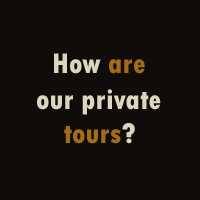
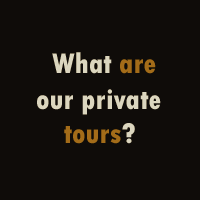
english version added

Changed region(s): [[0.24, 0.24, 0.78, 0.39]]

diff --git a/en.html b/en.html
@@ -136,12 +136,12 @@
 				<img src="images/homeimages/slider8.jpg" alt="slider1"/>
 				<img src="images/homeimages/slider9.jpg" alt="slider1"/>
 				<div id="firstinfo">
-					<h1><strong>LONDON,<br/> AS YOU DESERVE</strong></h1>
-					<h2><em>We adapt to <span>you</span></em></h2>
-					<p><a href="#tours"><strong>&nbsp;&nbsp;&nbsp;&nbsp;"<em>Hiring <span>Private</span></br>&nbsp;&nbsp;&nbsp;&nbsp;&nbsp;&nbsp;&nbsp;&nbsp;&nbsp;&nbsp;<span>Tours</span> for groups</em>"</strong></a></p>
-					<p><a href="#weektours"><strong>&nbsp;&nbsp;&nbsp;&nbsp;&nbsp;&nbsp;"<em>Offer Tours</br>&nbsp;&nbsp;&nbsp;&nbsp;&nbsp;&nbsp;&nbsp;&nbsp;&nbsp;&nbsp;&nbsp;&nbsp;&nbsp;  each <span>week</span></em> "</strong></a></p>
-					<p><a href="#transfers"><strong>&nbsp;&nbsp;"<em><span>Transfers</span> from and</br>&nbsp;&nbsp;&nbsp;&nbsp;&nbsp;&nbsp;&nbsp;&nbsp;&nbsp;&nbsp;&nbsp;&nbsp;&nbsp;  to the airports</em> "</strong></a></p>
-					<p><a href="#free"><strong>&nbsp;&nbsp;"<em><span>Free</span> Tours and</br>&nbsp;&nbsp;&nbsp;&nbsp;&nbsp;&nbsp;&nbsp;&nbsp;&nbsp; many more offers</em> "</strong></a></p>
+					<h1><strong>THE LONDON YOU<br/> DESERVE</strong></h1>
+					<h2><em>We adjust to <span>all your needs</span></em></h2>
+					<p><a href="#tours"><strong>&nbsp;&nbsp;&nbsp;&nbsp;"<em>Pre-Booked <span>Private</span></br>&nbsp;&nbsp;&nbsp;&nbsp;&nbsp;&nbsp;&nbsp;&nbsp;&nbsp;&nbsp;<span>Tours</span> for groups</em>"</strong></a></p>
+					<p><a href="#weektours"><strong>&nbsp;&nbsp;&nbsp;&nbsp;&nbsp;&nbsp;"<em>Tours in offer</br>&nbsp;&nbsp;&nbsp;&nbsp;&nbsp;&nbsp;&nbsp;&nbsp;&nbsp;&nbsp;&nbsp;&nbsp;&nbsp;  every <span>week</span></em> "</strong></a></p>
+					<p><a href="#transfers"><strong>&nbsp;&nbsp;"<em><span>Transfers</span> to</br>&nbsp;&nbsp;&nbsp;&nbsp;&nbsp;&nbsp;&nbsp;&nbsp;&nbsp;&nbsp;&nbsp;&nbsp;&nbsp;  every airport</em> "</strong></a></p>
+					<p><a href="#free"><strong>&nbsp;&nbsp;"<em><span>Free</span> Tours and</br>&nbsp;&nbsp;&nbsp;&nbsp;&nbsp;&nbsp;&nbsp;&nbsp;&nbsp;&nbsp;&nbsp; many more</em> "</strong></a></p>
 				</div>
 
 			</section>
@@ -191,11 +191,11 @@
 				<article class="contentabout" >
 				</br>
 				</br>
-					<p>"¿Viajas a Londres en familia? ¿Sois un cole que busca una actividad lúdico-cultural para vuestro viaje de fin de curso? ¿Estáis de despedida de soltero/a o, simplemente vienes en pareja y te apetece disfrutar de un paseo relajado?</p>
+					<p>Are you in London on a family holiday? Are you a school looking for a cultural activity for your annual school trip? Are you organizing a bachelor party or just travelling with your couple and feeling like going for a relaxing walk around town?</p>
 				</br> 
-					<p>Nuestros tours privados están pensados para aquellos que buscan poder disfrutar de las ventajas de tener un guía en exclusiva, lo que permite adaptar el ritmo y el tono del tour a las necesidades de cada grupo convirtiendo la experiencia en algo personal.</p>
+					<p>Our private tours are designed for those who want to enjoy the advantages of an exclusive guide, which allows us to adapt the pace and tone of the tour to each group’s needs and make it a personal experience.</p>
 				</br>
-					<p><span>Los precios</span> varían según el número de integrantes del grupo y es necesaria la reserva previa a través del apartado contacto para poder establecer un punto y una hora de encuentro. Puedes consultar nuestra tabla de precios <span><a href="#prices"> aquí</a></span>."</p>
+					<p><span>The price</span> depends on the number of people in the group and a previous booking through our contact page is needed so that we can arrange a meeting time and location. You can check our price chart <span><a href="#prices"> here</a></span>.</p>
 				</br>
 					<p><a href="#privatetoursconditions">Private Tours Terms and Conditions</a></p>
 				</br>
@@ -208,7 +208,7 @@
 				<img src="images/pricesimages/prices.jpg"/>
 				<article class="contentprices" >
 					</br>
-					<h4>"¿Quieres que te acompañemos desde el hotel hasta el punto de encuentro? Por solo <span><em>20 libras más</em></span> sobre el precio total podemos hacerlo. Pregúntanos sobre nuestros servicios de recogida a la hora de hacer la reserva."</h4>
+					<h4>Do you want us to walk with you from your hotel to the meeting point? We can do it for just an <span><em>extra 20 pounds</span></em>. Ask about our pick up services when you make the booking.</h4>
 					<table>
 					 	<thead>
 					    	<tr>
@@ -219,11 +219,11 @@
 					  	<tbody>
 					    	<tr>
 					      		<td>1-10 people</td>
-					      		<td>£90 per group</td>
+					      		<td>100 pounds for the whole group</td>
 					    	</tr>
 					    	<tr>
 					      		<td>11-19 people </td>
-					      		<td>£90 pounds per group plus £6 per person extra over the number of 10 people.</td>
+					      		<td>100 + 5 pounds extra for each person above 10</td>
 					    	</tr>
 					    	<tr>
 					      		<td>20-30 people</td>
@@ -231,13 +231,13 @@
 					    	</tr>
 					    	<tr>
 					      		<td>+30 people</td>
-					      		<td>Ask for price</td>
+					      		<td>Ask price</td>
 					    	</tr>
 					  	</tbody>
 					</table>
 					<br>
-					<p>Get <strong><span>10% discount</span></strong> if you book more than one tour at the same time and a <strong><span>discount of 15%</span></strong> from the third one</p>
-					<p>Free tour for children under 10 years (inclusive) accompanied by adults (maximum 2 children per adult).</p>
+					<p>If you book more than one tour in the same booking you will receive a <strong><span>10% discount</strong></span> <br />in the second tour and a <strong><span>15% discount</strong></span> in each tour from the third one.</p>
+					<p>Children up to 13 years old will not be taken into account, provided they are accompanied by an adult (max. 2 children per adult)</p>
 				</article>
 			</section>
 			<!--/Prices-->
@@ -248,34 +248,34 @@
 					<article class="contentconditions">
 						</br>
 						</br>
-							<h1>Términos y Condiciones de los Tours Privados</h1>
+							<h1>Private Tours Terms & Conditions</h1>
 						</br>
 						</br>
-							<p>Cualquier reserva hecha con www.tourlondres.com estará regida y sujeta a los siguientes términos y Condiciones:</p>
+							<p>Any booking made with www.tourlondres.com will be subject to the following terms and conditions.</p>
 						</br>
-							<p>&raquo; Para poder reservar un tour privado será necesario consultar disponibilidad a través de la sección ”Contacto” de la página web o mandar un correo electrónico a <span>contacto@tourlondres.com</span>. Para hacer la reserva oficial se abonará el 100% del precio del servicio.</p>
+							<p>&raquo; In order to book a private tour, it is necessary to ask for availability through the “Contact” section of the web site or send an email to <span>contacto@tourlondres.com</span>. 100% of the service price will be paid when booking the service.</p>
 						</br>
-							<p>&raquo; Los precios están establecidos según el número de integrantes del grupo. <span>Los niños de hasta 13 años no serán contabilizados</span> a la hora de establecer el precio de un tour privado siempre y cuando vayan acompañados de un adulto (Máximo de 2 niños por adulto, a partir del tercero se  contabilizarán como un miembro más del grupo).</p>
+							<p>&raquo; Prices are established depending on the number of people in the group. Children <span>up to 13 years old</span> will not be taken into account when calculating the price of a private tour, provided they are accompanied by an adult (maximum of 2 children per adult, from the third one they will count as a full paying member of the group)</p>
 						</br>
-							<p>&raquo; La fecha, hora y el punto de partida de los tours se <span>acordará entre el cliente y Tour Londres</span> a través de la reserva. El guía esperará un máximo de <span>una hora en el punto de encuentro</span> que se descontará del tiempo estipulado de la ruta. Una vez pasado este tiempo se entenderá que el cliente no se ha presentado y el tour será cancelado.</p>
+							<p>&raquo; The date, time and start point of the tours <span>will be agreed between Tour Londres and the customer</span> during the booking. The guide will wait a maximum of <span>1 hour at the meeting point</span> and that time will be deduced from the total time of the tour. After that time, we will consider it as a no-show and the tour will be canceled.</p>
 						</br>
-							<p>&raquo;<span> Tour Londres se reserva el derecho a cambiar, cancelar o alterar rutas</span> siempre que lo considere necesario por motivos meteorológicos, seguridad o causas ajenas a la empresa. En caso de cancelación del servicio por responsabilidad directa de Tour Londres, <span>se abonará una devolución íntegra del precio</span> del servicio o el itinerario/servicio será sustituido por uno de igual valor.</p>
+							<p>&raquo;<span> Tour Londres reserves the right to change, cancel or modify routes</span> whenever it may be necessary due to weather conditions, security or external reasons. In case of cancelation of the service due to a direct responsibility from Tour Londres, <span>a full refund of the price of the service</span> will be made or the tour/service will be replaced for one of the same value. </p>
 						</br>
-							<p>&raquo; Si debido a una causa de fuerza mayor como terremotos, nubes de polvo volcánico, condiciones meteorológicas extremas, guerras, etc. no se puede ofrecer el tour, Tour Londres no se hará responsable.</p>
+							<p>&raquo; Tour Londres is not responsible in case of cancelation due to external conditions such as hearthquakes, volcanic dust, extreme weather conditions, wars, etc.</p>
 						</br>
-							<p>&raquo; Tanto Tour Londres como los guías autónomos que proporcionan los servicios promocionados por Tour Londres no se hacen responsables de ninguna lesión física ni pérdida o daño de objetos personales durante el recorrido, así como gastos adicionales debido a retrasos o cambios por parte del cliente.</p>
+							<p>&raquo; Either Tour Londres or the self-employed guides providing the services on behalf of Tour Londres are not responsible of any physical damage or loss or damage of personal belongings during the tour, or any additional costs due to changes o delays caused by the customer.</p>
 						</br>
-							<p>Tour Londres Ltd no pasará información personal a terceros</p>
+							<p>Tour Londres Ltd will not share any information with third parties.</p>
 						</br>
-							<p>Tour Londres y los guías se reservan el derecho de admisión a sus tours a cualquier persona y por cualquier motivo.</p>
-							<h3>Formas de Pago</h3>
-							<p>El pago se realizará en £ (Libra esterlina) en la tasa de cambio del día de su reserva y mediante transferencia bancaria.</p>
-							<h3>Cancelaciones</h3>
-							<p>Si la cancelación se realiza al menos <span>72 horas antes</span> de la hora del comienzo de los servicios se devolverá el 100% de la cantidad abonada siendo el cliente el que soporte cualquier coste bancario en el caso de que existiera. Si se produce una cancelación <span>entre las 72 y 24 horas</span> antes del servicio se devolverá el 50% del total  siendo, de la misma manera, el cliente el que soporte cualquier coste bancario en el caso de que existiera. Si la cancelación tiene lugar con <span>menos de 24 horas</span> de antelación a los servicios o de no presentarse el grupo el día en el lugar y hora de encuentro se cobrará una tarifa de cancelación del 100% (no reembolsable).</p>
+							<p>Tour Londres and its guides reserve the right of admission to their tours to any person and for any reason.</p>
+							<h3>Payment options:</h3>
+							<p>The payments will be made in british pounds at the change rate of the day of the booking and through bank transfer.</p>
+							<h3>Cancelations:</h3>
+							<p>If the cancelation is made at least 72 hours prior to the start of the service, 100% of the amount paid will be returned, and the customer will have to cover any additional administrative cost. If the cancelation is made between 72 and 24 hours prior to the service, 50% of the total amount will be returned, and yet again the customer will have to cover any additional administrative cost. If the cancelation is made less than 24hours prior to the services or the group does not show up at the agreed start date and time of the tour, a cancelation charge of 100% will be charged (non-refundable)</p>
 						</br>
-							<p>Para realizar una cancelación de los servicios previamente confirmados deberá mandar un correo a <span>contacto@tourlondres.com</span></p>
+							<p>In order to cancel a previously booked service, an email needs to be sent to: <span>contacto@tourlondres.com</span></p>
 						</br>
-							<p>Cualquier reserva de Tours Privados hecha con tourlondres.com está sujeta y regida a estos “Términos y Condiciones”. Ningún cambio en estos “Términos y Condiciones” tendrá efecto si no está puesto por escrito y con la autoridad de tourlondres.com.</p>
+							<p>Any Private Tours booking made with tourlondres.com will be subject to these “Terms and Conditions”. No change in these “Terms and Conditions” will be valid unless executed in writing and authorized by tourlondres.com.</p>
 						</br>
 						</br>
 					</article>
@@ -289,19 +289,19 @@
 				<article class="contentweektours">
 				</br>
 				</br>
-					<p>"Si quieres conocer Londres con nosotros, <span>todos los fines de semana</span> organizamos tours abiertos a los que puedes unirte por solo <span>10 libras</span> por persona. Consulta nuestros horarios y reserva tu plaza a través de nuestra sección de contacto."</p>
+					<p>If you want to discover London with us, we organize open tours <span>every weekend</span> which you can join for just <span>10 £</span> per person. Check our times and book a place through our contact page. Children up to 13 years old go free when accompanied by an adult, 2 children per adult maximum.</p>
 				</br>
 					<div>
 						<table>
 							<tbody>
 						    	<tr>
-						    		<td><a href="#oldcity"><img src="images/toursimages/oldcity-es.jpg"/></a></td>
+						    		<td><a href="#oldcity"><img src="images/toursimages/oldcity-en.jpg"/></a></td>
 						    		<td><a href="#westminster"><img src="images/toursimages/westminster.jpg"/></a></td>
 						    	</tr>
 						    </tbody>
 						</table>
 					</div>
-					<p><a href="#weektoursconditions">Términos y Condiciones de Tours Periódicos Semanales</a></p></p>
+					<p><a href="#weektoursconditions">Weekly Tours terms and conditions:</a></p></p>
 			</section>
 
 			<!--Weekly Conditions-->
@@ -310,36 +310,14 @@
 					<article class="contentconditions">
 						</br>
 						</br>
-							<h1>Términos y Condiciones de Tours Periódicos Semanales</h1>
+							<h1>Weekly Tours terms and conditions:</h1>
 						</br>
 						</br>
-							<p>Cualquier reserva hecha con www.tourlondres.com estará regida y sujeta a los siguientes términos y Condiciones:</p>
+							<p>&raquo; In order to give you the best quality, our tours have limited places. Book yours through the “Contact” section of our web site or by sending us an email to <span>contacto@tourlondres.com</span>.</p>
 						</br>
-							<p>&raquo; Para ofrecer la máxima calidad, contamos con un número máximo de participantes en nuestros tours, por lo que será necesario reservar la plaza a través de la sección “Contacto” de la página web o mandando un correo electrónico a <span>contacto@tourlondres.com</span> .</p>
+							<p>&raquo; Our prices are per person/tour. <span>Children up to 13 years old can join free of charge</span> to our weekly tours provided they are accompanied by an adult (max. 2 children per adult, if there are additional children, the general adult fare will be applied)</p>
 						</br>
-							<p>&raquo; Los precios están establecidos por persona y ruta. <span>Los niños de hasta 13 años pueden unirse de forma gratuita</span> a las rutas semanales siempre y cuando vayan acompañados de un adulto (Máximo de 2 niños por adulto, a partir del tercero se aplicará la tarifa general). </p>
-						</br>
-							<p>&raquo; Es <span>responsabilidad del cliente</span> comprobar la fecha, hora y el punto de partida de los tours. La hora establecida es la hora en la que el tour da comienzo por lo que se recomienda estar, al menos, diez minutos antes en el punto de encuentro acordado. Si el cliente no se presenta con puntualidad, Tour Londres se reserva el derecho a comenzar el tour sin el cliente. En tal caso, el cliente debe entender que no existirá devolución alguna por parte de la empresa. </p>
-						</br>
-							<p>&raquo; <span>Tour Londres se reserva el derecho a cambiar, cancelar o alterar rutas siempre que lo considere necesario</span> por motivos meteorológicos, seguridad o causas ajenas a la empresa. En caso de cancelación del servicio por responsabilidad directa de Tour Londres, se abonará una devolución íntegra del precio del servicio o el itinerario/servicio será sustituido por uno de igual valor.</p>
-						</br>
-							<p>&raquo; Si debido a causa de fuerza mayor como terremotos, nubes de polvo volcánico, condiciones meteorológicas extremas, guerras, etc. no se puede ofrecer el tour, Tour Londres no se hará responsable.</p>
-						</br>
-							<p>&raquo; Tanto Tour Londres como los guías autónomos que proporcionan los servicios promocionados por Tour Londres no se hacen responsables de ninguna lesión física ni pérdida o daño de objetos personales durante el recorrido, así como gastos adicionales debido a retrasos o cambios por parte del cliente.</p>
-						</br>
-							<p>Tour Londres Ltd no pasará información personal a terceros</p>
-						</br>
-							<p>Tour Londres y los guías se reservan el derecho de admisión a sus tours a cualquier persona y por cualquier motivo.</p>
-							<h3>Formas de Pago</h3>
-							<p>El pago se realizará en £ (Libra esterlina) en la tasa de cambio del día de su reserva y mediante transferencia bancaria.</p>
-							<h3>Cancelaciones</h3>
-							<p>El 100% de la cantidad abonada será devuelta en cancelaciones hasta las 12 de la noche del día previo al servicio aunque será el cliente el que soporte cualquier coste bancario en el caso de que existiera.</p>
-						</br>
-							<p>En caso de cancelación el propio día de los servicios o no presentarse el día en el lugar y hora de encuentro se le cobrará una tarifa de cancelación del 100% (no reembolsable).</p>
-						</br>
-							<p>Para realizar una cancelación de los servicios previamente confirmados deberá mandar un correo a <span>contacto@tourlondres.com</span> .</p>
-						</br>
-							<p>Cualquier reserva de Tours Semanales hecha con tourlondres.com está sujeta y regida a estos “Términos y Condiciones”. Ningún cambio en estos “Términos y Condiciones” tendrá efecto si no está puesto por escrito y con la autoridad de tourlondres.com</p>
+							<p>&raquo; The customer <span>must check the date<span>/, time and start point of the tours. The start time is the time the tour begins, so it is recommended to arrive at least 10 minutes before to the agreed meeting point. In case of the customer arriving late, Tour Londres reserves the right to starting the tour. If this happens, the customer does not have the right to any reimbursement or compensation from the company.</p>
 						</br>
 						</br>
 					
@@ -354,9 +332,9 @@
 				<article class="contentfree">
 				</br>
 				</br>
-					<h1>Would you like to enjoy some of our Tours for <span>free</span>?</h1>
+				<h1>Do you want to join any <br />of our tours for <span>free</span>?</h1>
 				</br>
-					<h3>Follow us on <a href="https://www.facebook.com/pages/Tour-Londres/379071848828244?fref=ts" target="_blank">Facebook</a> and find out whenever we organize one! </h3>
+					<h3>Follow our <a href="https://www.facebook.com/pages/Tour-Londres/379071848828244?fref=ts" target="_blank">Facebook</a> page and find out when we have a free tour coming! </h3>
 				</br>
 				</article>
 			</section>
@@ -369,12 +347,12 @@
 				</br>
 				</br>
 					<h1>Direct Transfer</h1>
-					<p>Given the size of London, and the high cost of public transport, we offer door to door transportation to reach your destination without any problems and effectively and conveniently. Drivers who are registered and have extensive experience await you in the arrivals hall or hotel lobby holding a sign with your name.</p>
+					<p>We offer door to door transfers to help you cope with the huge size of London and its public transport high fares, so that you can reach your destination in a quick and comfortable way. The drivers (all of them registered and experienced) will wait for you at the lobby of your hotel with a sign with your name.</p>
 				</br>
-					<h1>Transfer group of people</h1>
-					<p>Prices are based on the size of your group, including a medium suitcase and a carry-on bag per person each way. Transfers from all airports and central London.</p>
+					<h1>Group transfers</h1>
+					<p>The prices depend on the number of people in the group, including a medium luggage and hand luggage for each person and journey. We provide transfers between all London airports and Central London.</p>
 				</br>
-					<p>For further information, please contact to us indicating DATE of ARRIVING, NUMBER OF PEOPLE, GATHERING PLACE, POST CODE and DESTINATION.</p>
+					<p>For more information, please contact us and provide us with this information: DATE, NUMBER OF PEOPLE, PICK UP POINT, DESTINATION, POSTCODE.</p>
 				</br>
 					<table>
 					 	<thead>
@@ -407,53 +385,53 @@
 					    </tbody>
 					</table>
 				</br>
-					<p><a href="#transfersconditions">Terms and Conditions of the Airport Transfers</a></p>
+					<p><a href="#transfersconditions">Airport Transfers Terms and Conditions</a></p>
 				</br>
 				</br>
 				</article>			
 			</section>
 			<!--Transfers Conditions-->
 			<section id="transfersconditions" class="tourpanel">
-				<img src="images/conditionsimages/transfersconditions.jpg"/>
+				<img src="images/conditionsimages/toursconditions.jpg"/>
 					<article class="contentconditions">
 					</br>
 					</br>
-						<h1>Terms and Conditions of the Airport Transfers</h1>
+						<h1>Airport Transfers Terms and Conditions</h1>
 						<h3>Procedure</h3>
 							<ul>
-								<li><p>The driver will be waiting in the arrivals hall with a sign with your name.</p></li>
-								<li><p>No notice is required if the flight is delayed because the company is kept informed of the arrival time with the flight number provided by you.</p></li>
-								<li><p>Due to the size of London, the hotel pickup hours to the different airports is as follows (unless otherwise noted): <span>Heathrow / City Airport</span> <span>3.30 hours before departure</span>. <span>Gatwick / Stansted / Luton</span> <span>4 hours before flight departure</span>.</p></li>
+								<li><p>The driver will be waiting for you in he arrivals hall with a sign with your name on it.</p></li>
+								<li><p>You don't need to call us if the flight gets delayed, we'll check the arrival time if you provide us with the flight number.</p></li>
+								<li><p>Due to the size of London, the pick up times from the hotels is the following (unless the contrary is indicated): <span>Heathrow / City Airport</span> <span>3.30h before departure</span>. <span>Gatwick / Stansted / Luton</span> <span>4h before flight departure</span>.</p></li>
 							</ul>
-						<h3>Waiting time</h3>
+						<h3>Waiting times</h3>
 							<ul>
-								<li><p>The maximum waiting time for <span>arriving flights from countries of the European Union will be 1 hour</span> counting from the time the flight has landed.</p></li>
+								<li><p>The maximum waiting times for flights arriving from the EU will be 1h after the flight's landing time, and 1h 30min for flights arriving from outside the EU.</p></li>
 								<li><p>For <span>flights arriving from countries outside the European Union, the wait time will be 1.30 hour</span> counting once the flight has landed.</p></li>
-								<li><p>For departures, <span>our drivers wait a maximum time of 15 minutes past the appointed time once</span>.</p></li>
-								<li><p>Once the driver has he left the area, if it was contacted to return the collection point occurs only if any subsequent services were not affected and applying an extra cost.</p></li>
+								<li><p>For departures, <span>our drivers will wait a maximum of 15m past the agreed pick up time</span>.</p></li>
+								<li><p>In case of contacting the driver once he has left, he would only return to the pick up adress if no other later service is affected and at an extra charge.</p></li>
 							</ul>
 						<h3>Babies / Children</h3>
-							<p>Child seats available at an extra cost of <span>£10.00 per seat each way</span>. Please do not forget to indicate if necessary. If we are not informed at the time of confirmation, the driver will not be authorized to perform the service, and the amount thereof would not be returned.</p>
+							<p>We have baby seats available with an extra cost of 10£ per pram and journey. Please don't forget to tell us if you need one prior to the journey. If not indicated before the journey, the driver will not be authorized to provide the service and the cost of the service will not be reimbursed.</p>
 						<h3>Payment method</h3>
 							<ul>
-								<li><p>Our prices are per vehicle.</p></li>
-								<li><p>The payment is made by bank transfer once booked services.</p></li>
+								<li><p>All our prices are per vehicle.</p></li>
+								<li><p>The payment method is by bank transfer, once the service is booked.</p></li>
 							</ul>
-						<h3>Extra supplements</h3>
+						<h3>Extra charges</h3>
 							<ul>
-								<li><p>Our prices are based only for routes to / from central London.</p></li>
-								<li><p>Prices include pick up / stop 2 hotels. A charge of <span>£20.00 will apply for extra stop</span>.</p></li>
-								<li><p><span>A supplement of 20%</span> on shipments between 22.00 and 06:00 shall apply.</span></p></li>
-								<li><p>It will be charged an extra payment for special dates such as 25, 26 December and 1 January.</span>.</p></li>
+								<li><p>All our prices are based in one way journeys to/from Central London.</p></li>
+								<li><p>Our prices include a máximum of stops/pick ups in two hotels. An extra charge of 20£ will be added for every additional stop.</p></li>
+								<li><p>An extra charge of 20% will be added to transfers between 10pm and 6am.</p></li>
+								<li><p>An extra charge will be added in special dates such as 25th 26th of December and 1st of January.</p></li>
 							</ul>
 						<h3>Cancellation Policy</h3>
 							<ul>
-								<li><p>100% for cancellations within <span>72 hours of arrival will be refunded.</span>.</p></li>
-								<li><p>The full amount will be charged for cancellations less than 72 hours of arrival.</li></p>
-								<li><p>The entire amount would be charged in the event that the customer does not show up.</li></p>
+								<li><p>100% of the total cost will be returned if the cancelation is made at least 72h prior to arrival.</p></li>
+								<li><p>The total cost will be charged if the cancelation is made less than 72h prior to the arrival.</li></p>
+								<li><p>The total cost will be charged if the customer does not show up.</li></p>
 							</ul>
-						<h3>Relevant Information</h3>
-							<p><span>We are not responsible for the loss of a flight. You must provide all the necessary correct information, such as flight number, departure time, hotel management and request a pickup with enough time</span>.</p>
+						<h3>Important Information</h3>
+							<p><span>We are not responsible in case of a missed flight. It is the customer's obligation to provide us with the correct flight information, flight number, departure time, hotel address and also booking the service well in advance before the pick up time</span>.</p>
 					</br>
 					</br>
 					</article>
@@ -668,6 +646,28 @@
 					</article>
 			</section>
 			<!--/Tour Harry Potter-->
+
+			<!--Colaborations-->
+			<section id="colaborations" class="tourpanel">
+				<img src="images/colaborationsimages/colaborations.jpg"/>
+					<article class="contentcolaborations">
+					<div>
+						<table>
+							<tbody>
+						    	<tr>
+						    		<td><a href="http://www.zoneoneradio.com/2013/04/nuevo-show-lanuevea-armada-con-patricia.html" title="La Nueva Armada Radio" target="_blank"><img src="images/colaborationsimages/nuevaarmada.jpg"/></a></td>
+						    		<td><a href="http://www.buscoenlondres.com/" title="Busco en Londres" target="_blank"><img src="images/colaborationsimages/buscoenlondres.jpg"/></a></td>
+						      	</tr>
+						    	<tr>
+						    		<td><a href="http://genteventos.com/" title="Gente Eventos" target="_blank"><img src="images/colaborationsimages/genteventos.png"/></a></td>
+						    		<td><a href="http://www.elcarnavaldelacomedia.co.uk/" title="El Carnaval de la Comedia" target="_blank"><img src="images/colaborationsimages/carnaval.jpg"/></a></td>
+						    	</tr>
+						    </tbody>
+						</table>
+					</div>
+					</article>
+			</section>
+			<!--/Colaborations-->
 
 		</section>
 		<!--/main body-->

diff --git a/css/structure/header.css b/css/structure/header.css
@@ -101,8 +101,8 @@ header h2 span {
 /**-------------------------------------------------- 3. Languages ------------------------------------------------------**/
 
 #boardLanguages { /**all languages panel**/
-	/**display:inline-block;**/
-	display:none;
+	display:inline-block;
+	/*display:none;*/
 	position:relative;
 	left:80.1%;
 	width:138px;
